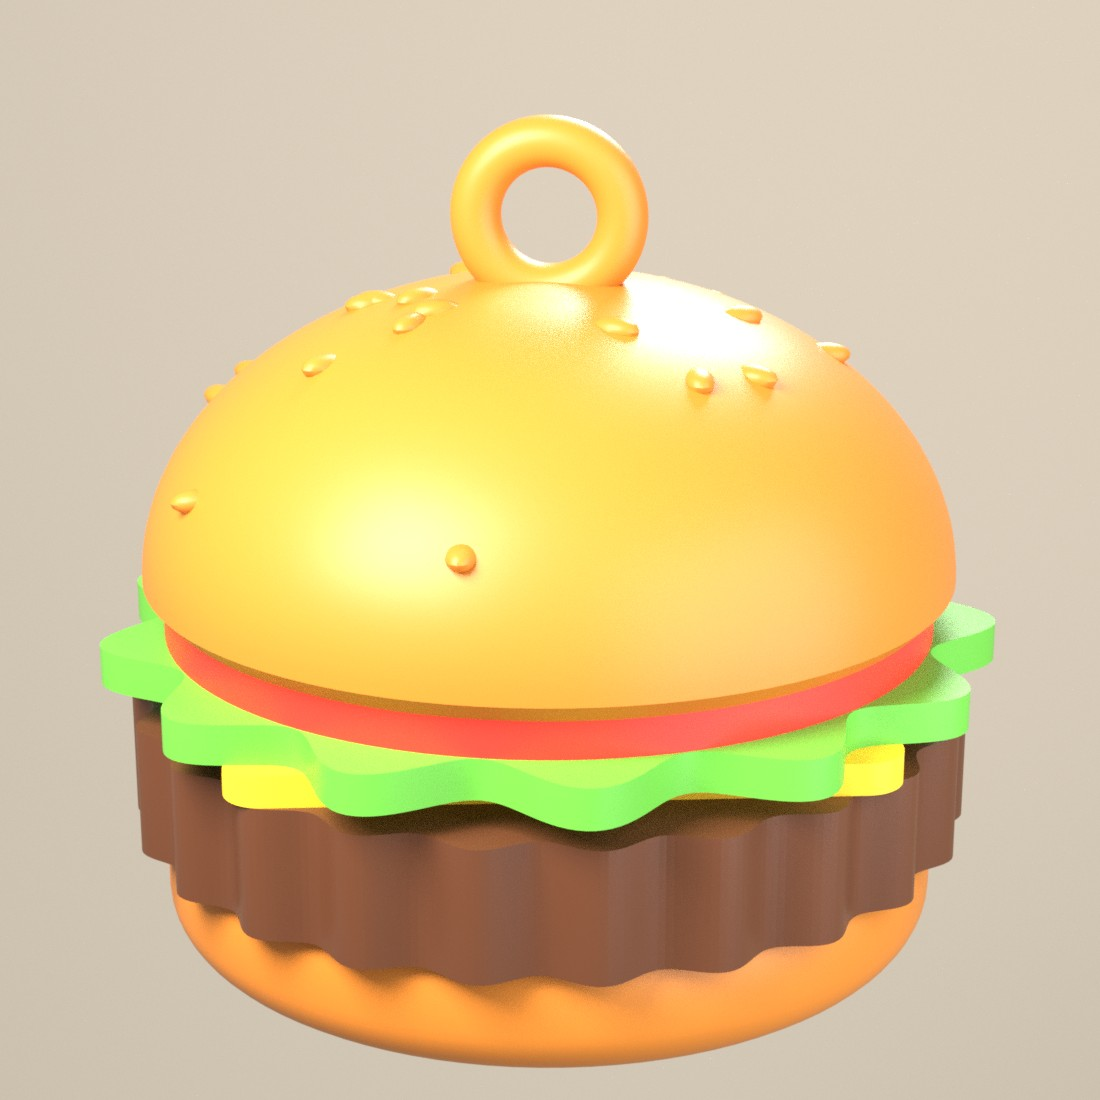
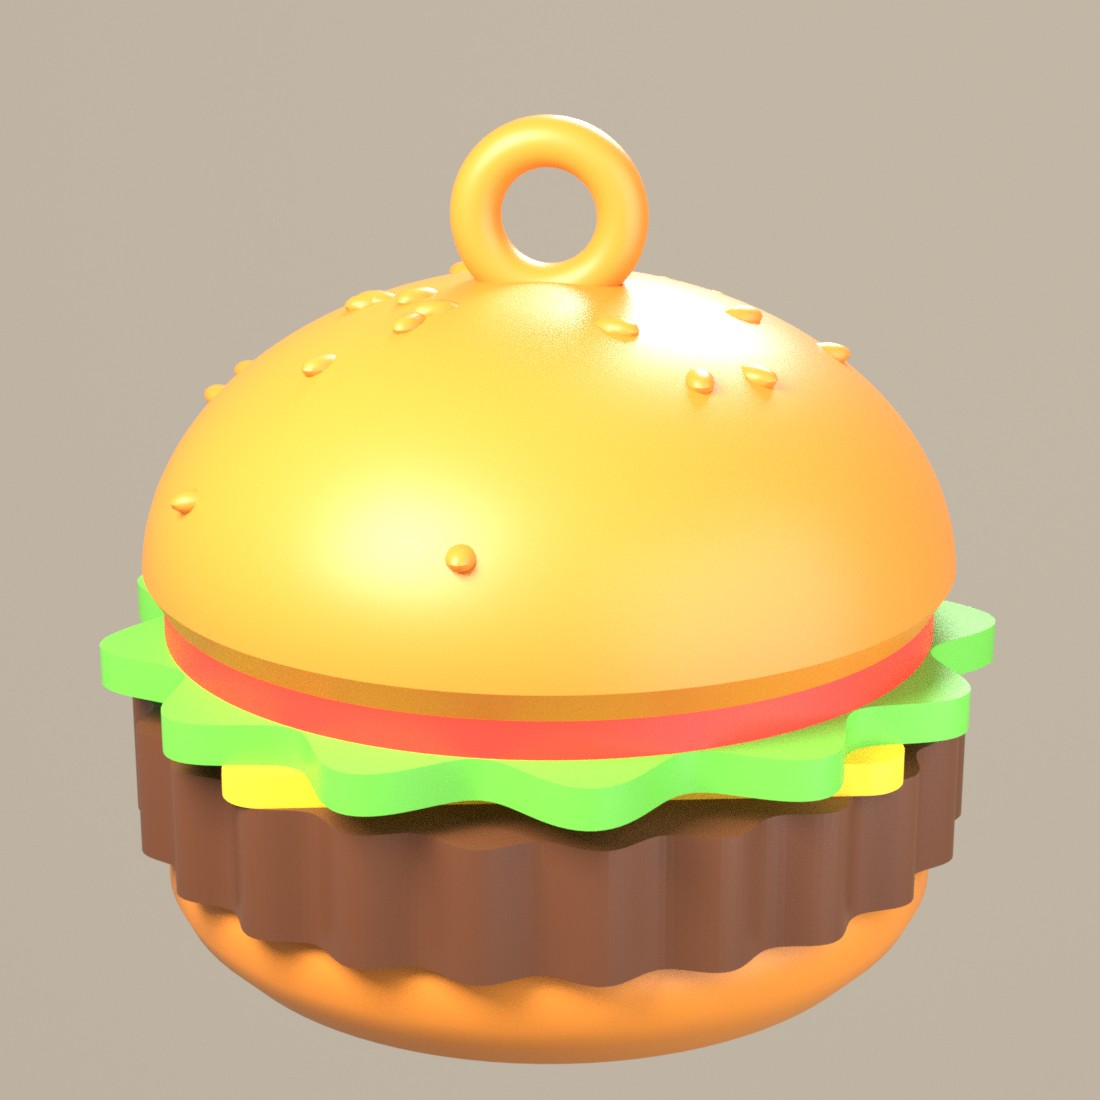
Hamburger a pezzi: 6 pezzi monocolore con perno esagonale e clip a scatto
Ogni pezzo si stampa in un solo colore (nessun cambio filamento); il pane
sotto ha un perno che infila gli strati e si aggancia a scatto nel pane sopra.

Claude-Session: https://claude.ai/code/session_018R7LFt7EiVGEL34tPqW5rx

diff --git a/progetti/pinup-cafe/addobbi-natale/genera_addobbi.py b/progetti/pinup-cafe/addobbi-natale/genera_addobbi.py
@@ -2,7 +2,7 @@
 """
 Emozioni in 3D - Addobbi di Natale PIN-UP Cafe (6-8 cm) con logo sul retro.
 
-  hamburger  - 3D, colori a strati (cambio filamento a quote fisse)
+  hamburger  - 3D, stampato SCOMPOSTO (6 pezzi, ognuno di un colore) e montato con perno e clip
   sandwich   - 3D, tramezzino triangolare a strati con stecchino e oliva
   polpo      - piatto, con cappello di Babbo Natale, dettagli in rilievo
   pesciolino - piatto, dettagli in rilievo
@@ -93,30 +93,47 @@ def incidi_logo_sotto(corpo, sagoma, larghezza, centro=(0, 0), angolo=0):
     return corpo - estrudi(lg, PROF_LOGO + 0.01, -0.01)
 
 # ----------------------------------------------------------------- HAMBURGER (3D)
+# Stampato SCOMPOSTO: ogni pezzo in un solo colore, nessun cambio filamento.
+# Il pane sotto ha un perno esagonale che infila carne, formaggio, insalata e
+# pomodoro (l'esagono li tiene allineati) e termina con una clip a scatto che
+# si aggancia dentro il pane sopra.
+PERNO_ESAGONO = 8.0        # mm tra le facce piane
+GIOCO_FORO = 0.4           # foro dei pezzi intermedi = perno + gioco
+CLIP_D, CLIP_H = 8.0, 7.0  # parte tonda finale del perno (clip)
+CLIP_DENTE = 0.45          # sporgenza del dentino della clip
+CLIP_TAGLIO = 1.6          # fessura che rende elastiche le due metà
+
+def esagono(af):
+    return CrossSection.circle(af / np.sqrt(3), 6).rotate(30)
+
 def hamburger():
-    parti = []
-    # pane sotto: z 0-9, bordi arrotondati
-    pb = [(0, 0), (26, 0)] + [(26 + 4 * np.sin(a), 4 - 4 * np.cos(a)) for a in np.linspace(0, np.pi / 2, 10)][1:] \
-         + [(30, 7.5), (29.3, 9), (0, 9)]
+    Z_SOTTO, H_CARNE, H_FORM, H_INS, H_POM = 9.0, 10.0, 2.4, 3.0, 2.8
+    z_carne = Z_SOTTO
+    z_form = z_carne + H_CARNE
+    z_ins = z_form + H_FORM
+    z_pom = z_ins + H_INS
+    z0 = z_pom + H_POM                      # base del pane sopra
+    foro = esagono(PERNO_ESAGONO + GIOCO_FORO)
+
+    # --- pane sotto (bordo inferiore a 45 gradi: si stampa senza supporti) + perno con clip
+    pb = [(0, 0), (26.5, 0), (29.0, 2.5), (30.0, 4.5), (30.0, 7.5), (29.3, Z_SOTTO), (0, Z_SOTTO)]
     pane_sotto = rivoluzione(pb)
     pane_sotto = incidi_logo_sotto(pane_sotto, cerchio(28), 44)
-    parti.append(("pane", pane_sotto))
-    # carne: z 9-19, bordo irregolare
-    carne = estrudi(arrotonda(contorno_ondulato(31.5, 0.9, 23), 0.6), 10, 9)
-    parti.append(("carne", carne))
-    # formaggio: z 19-21.4, fetta quadrata con angoli che sporgono
-    formaggio = estrudi(arrotonda(CrossSection.square([48, 48], center=True).rotate(12), 3), 2.4, 19)
-    parti.append(("formaggio", formaggio))
-    # insalata: z 21.4-24.4, bordo ondulato
-    insalata = estrudi(contorno_ondulato(32, 2.4, 13), 3.0, 21.4)
-    parti.append(("insalata", insalata))
-    # pomodoro: z 24.4-27.2
-    pomodoro = estrudi(cerchio(29.5), 2.8, 24.4)
-    parti.append(("pomodoro", pomodoro))
-    # pane sopra: cupola z 27.2-51 + semi di sesamo
-    a, b, z0 = 31.0, 23.8, 27.2
-    prof = [(0, z0)] + [(a * np.cos(t), z0 + 1.5 + (b - 1.5) * np.sin(t)) for t in np.linspace(0, np.pi / 2, 40)]
-    prof = [(0, z0), (a - 1.5, z0)] + prof[1:]
+    perno = estrudi(esagono(PERNO_ESAGONO), z0 - Z_SOTTO + 0.02, Z_SOTTO - 0.01)
+    r, d = CLIP_D / 2, CLIP_DENTE
+    clip = rivoluzione([(0, 0), (r, 0), (r, 4.2), (r + d, 4.4), (r + d, 5.4), (r - 0.4, CLIP_H), (0, CLIP_H)])
+    clip = clip - Manifold.cube([CLIP_TAGLIO, 20, CLIP_H], center=True).translate([0, 0, CLIP_H / 2 + 1.2])
+    pane_sotto = pane_sotto + perno + clip.translate([0, 0, z0])
+
+    # --- pezzi intermedi con foro esagonale
+    carne = estrudi(arrotonda(contorno_ondulato(31.5, 0.9, 23), 0.6) - foro, H_CARNE, z_carne)
+    formaggio = estrudi(arrotonda(CrossSection.square([48, 48], center=True).rotate(12), 3) - foro, H_FORM, z_form)
+    insalata = estrudi(contorno_ondulato(32, 2.4, 13) - foro, H_INS, z_ins)
+    pomodoro = estrudi(cerchio(29.5) - foro, H_POM, z_pom)
+
+    # --- pane sopra: cupola + sesamo + anellino; sotto, la sede della clip con la scanalatura
+    a, b = 31.0, 23.8
+    prof = [(0, z0), (a - 1.5, z0)] + [(a * np.cos(t), z0 + 1.5 + (b - 1.5) * np.sin(t)) for t in np.linspace(0, np.pi / 2, 40)][1:]
     cupola = rivoluzione(prof)
     semi = Manifold()
     rng = np.random.default_rng(7)
@@ -126,11 +143,14 @@ def hamburger():
         z = z0 + 1.5 + (b - 1.5) * np.sin(ph)
         seme = Manifold.sphere(1.0, 16).scale([1.9, 1.1, 0.9]).rotate([0, 0, np.degrees(th) + rng.uniform(-40, 40)])
         semi = semi + seme.translate([x * 0.985, y * 0.985, z - 0.15])
-    parti.append(("pane", cupola + semi))
-    # anellino per appenderlo
     anello = Manifold.revolve(cerchio(1.9, (5.5, 0)), 0, 360).rotate([90, 0, 0]).translate([0, 0, z0 + b + 4.6])
-    parti.append(("pane", anello))
-    return unisci_per_colore(parti)
+    rs = r + 0.15
+    sede = rivoluzione([(0, -1), (rs, -1), (rs, 3.95), (rs + d + 0.15, 4.15), (rs + d + 0.15, 5.6),
+                        (rs, 6.3), (rs, CLIP_H + 0.4), (0, CLIP_H + 0.4)])
+    pane_sopra = cupola + semi + anello - sede.translate([0, 0, z0])
+
+    return [("pane", pane_sotto), ("carne", carne), ("formaggio", formaggio),
+            ("insalata", insalata), ("pomodoro", pomodoro), ("pane", pane_sopra)]
 
 # ----------------------------------------------------------------- SANDWICH (3D)
 def triangolo(lato, r):
@@ -370,6 +390,8 @@ def salva(nome, parti, cartella):
     print(f"{nome:11s} ingombro {b[3]-b[0]:.1f} x {b[4]-b[1]:.1f} x {b[5]-b[2]:.1f} mm  volume {tutto.volume()/1000:.1f} cm3")
     return {"parti": quote, "ingombro_mm": [round(b[3]-b[0], 1), round(b[4]-b[1], 1), round(b[5]-b[2], 1)]}
 
+KIT = {"hamburger"}   # addobbi stampati a pezzi separati
+
 def main():
     cartella = os.path.join(QUI, "parti"); os.makedirs(cartella, exist_ok=True)
     fq = os.path.join(cartella, "quote.json")
@@ -377,6 +399,7 @@ def main():
     for nome, f in [("hamburger", hamburger), ("sandwich", sandwich), ("polpo", polpo), ("pesciolino", pesciolino), ("pizza", pizza), ("patatine", patatine)]:
         if len(sys.argv) > 1 and nome not in sys.argv[1:]: continue
         tutti[nome] = salva(nome, f(), cartella)
+        tutti[nome]["kit"] = nome in KIT
     json.dump(tutti, open(fq, "w"), indent=1)
 
 if __name__ == "__main__":

diff --git a/progetti/pinup-cafe/addobbi-natale/render_blender.py b/progetti/pinup-cafe/addobbi-natale/render_blender.py
@@ -94,7 +94,33 @@ def filo(sopra, lungh=3.0):
     bpy.ops.mesh.primitive_cylinder_add(radius=0.004, depth=lungh, location=(sopra.x, sopra.y, sopra.z + lungh / 2))
     bpy.context.object.data.materials.append(materiale("filo", "#C9A13B", 0.3))
 
-if VISTA in ("fronte", "retro"):
+if VISTA in ("esploso", "stampa"):
+    v, objs, piatto = importa(NOME)
+    bpy.context.view_layer.update()
+    if VISTA == "esploso":
+        for i, o in enumerate(objs):
+            o.location.z += i * 0.13 + (0.12 if i == len(objs) - 1 else 0)
+    else:   # pezzi appoggiati sul piatto come si stampano, in griglia 3 x 2
+        for i, o in enumerate(objs):
+            bpy.context.view_layer.update()
+            zmin = min((o.matrix_world @ Vector(c)).z for c in o.bound_box)
+            o.location = (((i % 3) - 1) * 0.78, (i // 3) * 0.78 - 0.39, -zmin)
+    c, dim = centro_ingombro(objs)
+    v.location -= c
+    mondo("#FBF6EE", 0.55)
+    if VISTA == "stampa":
+        bpy.ops.mesh.primitive_plane_add(size=3.0, location=(0, 0, -dim.z / 2 - 0.001))
+        bpy.context.object.data.materials.append(materiale("piatto_stampa", "#2B2B2E", 0.6))
+        sfondo("#F3E9DA")
+        camera((0.0, -3.6, 3.2), (0, 0.05, -0.15), 50)
+    else:
+        sfondo("#F3E9DA")
+        r = max(dim) * 2.6
+        camera((r * 0.25, -r * 0.95, r * 0.22), (0, 0, 0), 85)
+    luce_area("key", (-1.2, -1.6, 2.2), 260, 1.6, (1, 0.96, 0.9))
+    luce_area("fill", (1.6, -1.2, 0.6), 90, 2.0, (0.9, 0.95, 1))
+    luce_area("rim", (0.3, 1.6, 1.8), 120, 1.2)
+elif VISTA in ("fronte", "retro"):
     v, objs, piatto = importa(NOME)
     if VISTA == "retro":
         if piatto or NOME == "patatine": v.rotation_euler.z = math.radians(180)

diff --git a/progetti/pinup-cafe/addobbi-natale/README.md b/progetti/pinup-cafe/addobbi-natale/README.md
@@ -3,13 +3,24 @@
 Sei addobbi da 6-8 cm per l'albero, con il logo PIN-UP inciso sul retro.
 
 ![Tavola](rendering/tavola_completa.jpg)
+## Hamburger a pezzi
+
+![Hamburger kit](rendering/hamburger_kit.jpg)
+
+Ogni pezzo si stampa in un colore solo; si possono riempire interi piatti dello stesso colore (tutti i pani, poi tutte le carni, ecc.).
+
+- **Pane sotto** con un **perno esagonale** (8 mm): carne, formaggio, insalata e pomodoro hanno un foro esagonale e si infilano sul perno; l'esagono li tiene allineati.
+- In cima al perno c'è una **clip a scatto** (due metà elastiche con un dentino) che si aggancia nella sede del **pane sopra**: si preme e fa "clic".
+- Per un addobbo definitivo basta una goccia di colla nella sede del pane sopra.
+- Nessun supporto: il pane sotto ha il bordo inferiore a 45°, il pane sopra si stampa con la parte piatta sul piatto.
+
 ![Pizza](rendering/pizza_fronte_retro.jpg)
 ![Patatine](rendering/patatine_fronte_retro.jpg)
 ![Albero](rendering/albero_gruppo.jpg)
 
 | Addobbo | Tipo | Misure | Colori (cambio filamento a strati) |
 |---|---|---|---|
-| Hamburger | 3D | 68 × 68 × 63 mm | pane, carne, formaggio, insalata, pomodoro, pane |
+| Hamburger | 3D, **a pezzi** | 68 × 68 × 63 mm | 6 pezzi, ognuno di un colore: **nessun cambio filamento** |
 | Tramezzino | 3D | 71 × 63 × 44 mm | pane, prosciutto, formaggio, insalata, pane, oliva |
 | Polpo | piatto, 5,8 mm | 65 × 73 mm | rosso + dettagli bianchi + dettagli neri |
 | Pesciolino | piatto, 5,8 mm | 71 × 51 mm | azzurro + dettagli bianchi + dettagli neri |
